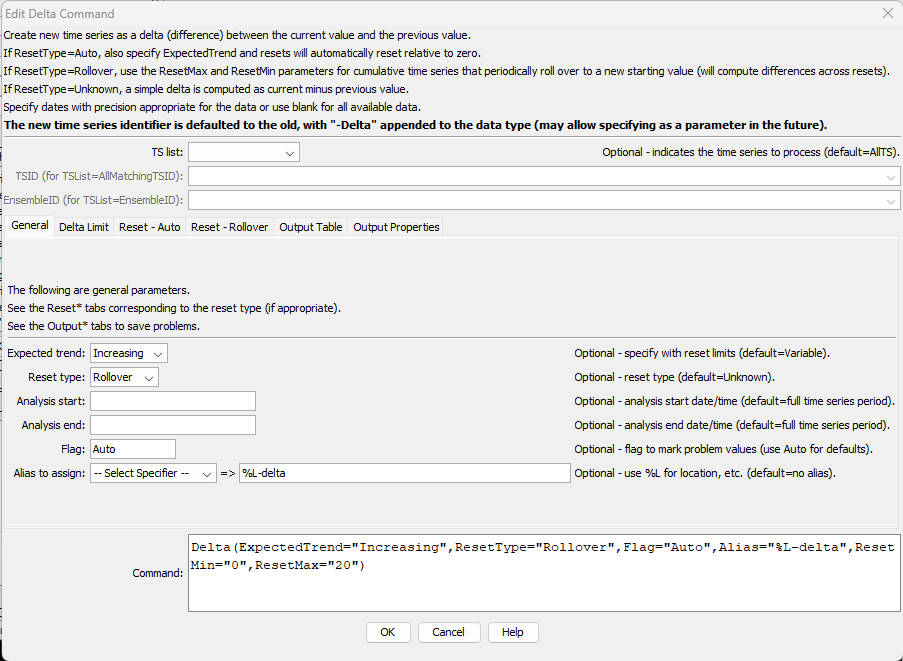
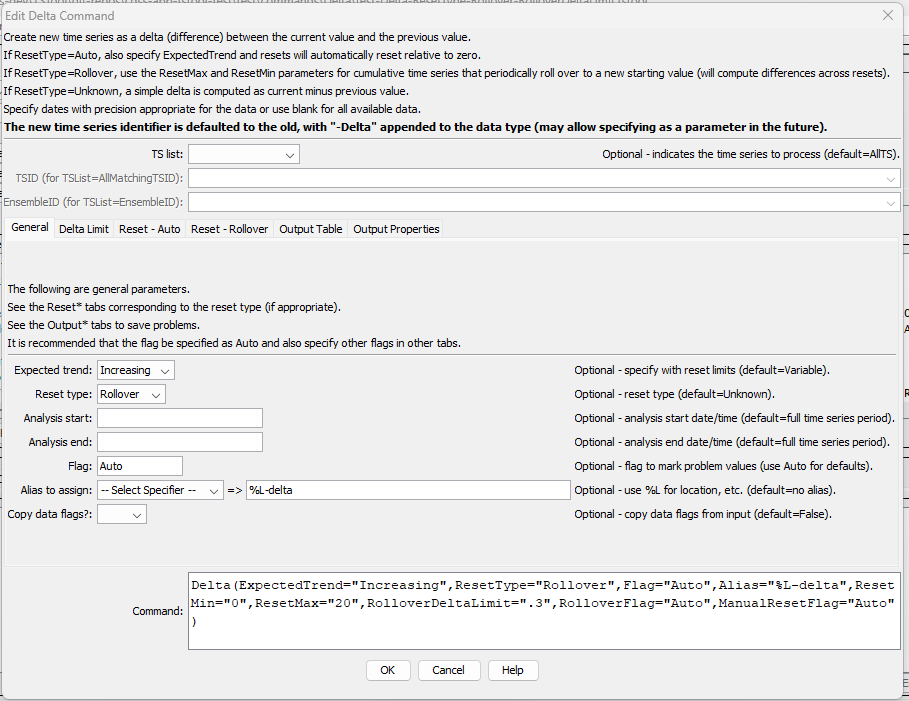
Update documentation for Delta command changes, issue #122

Changed region(s): [[0.0, 0.0, 1.0, 1.0]]

diff --git a/mkdocs-project/docs/css/extra-material-theme.css b/mkdocs-project/docs/css/extra-material-theme.css
@@ -5,7 +5,7 @@
  */
 
 /**
- * ADA compliance requires underline for links so that colorblind people can see the link.
+ * Web accessibility requires underline for links so that colorblind people can see the link.
  */
 a:link {
   text-decoration: underline;

diff --git a/mkdocs-project/docs/command-ref/Delta/Delta.md b/mkdocs-project/docs/command-ref/Delta/Delta.md
@@ -27,7 +27,8 @@ Examples of use include:
 The output value in the simplest case with default command parameters is
 the current value minus the previous value.
 The result is set to missing if this value cannot be computed due to missing input values,
-and can also be set to missing if certain conditions met by optional data checks.
+and can also be set to missing if certain conditions met by optional data checks
+(see the `DeltaLimitAction` and `IntervalLimitAction` parameters).
 
 Irregular-interval time series that result in differences not being computed will have
 missing values inserted in output at appropriate locations to maintain a consistent
@@ -138,6 +139,7 @@ By default, the reset is assumed to be relative to a zero datum value
 For example, annual rain or snow cumulative precipitation can be processed to determine incremental precipitation.
 Because no upper bound is set, it is not possible to add a delta above value before the reset,
 as can be done with `ResetType=Rollover`.
+Therefore, the value after the reset is the value.
 
 The following example is for flood warning system cumulative precipitation data.
 
@@ -218,17 +220,40 @@ Precipitation Time Series input for Variable Reset (<a href="../overview-reset-a
 
 #### Rollover Reset with Bounding Values ####
 
-If the cumulative time series is allowed to increase (or decrease) with reset using known bounding values,
-use `RestType=Rollover` and specify the `ResetMin` and `ResetMax` parameters to bound the values.
 This is appropriate, for example, where the cumulative value correspond to sensor counts such as
 precipitation sensor bucket tips.
 
-For `ExpectedTrend=Increasing` and cumulative time series,
-the input time series value for a reset will have a small value that follows a large value.
+If the cumulative time series is allowed to increase (or decrease) with reset using known bounding values, specify:
+
+*   `ExpectedTrend=Increasing` - to indicate an increasing accumulation (the following assumes increasing)
+*   `RestType=Rollover` - to indicate that rollover is expected
+*   `ResetMax` - maximum data value (rollover will use *`ResetMax` - previous value* as an "upper delta")
+*   `ResetMin` - minimum data value (rollover will add this to the above "upper delta")
+*   `RolloverDeltaLimit`:
+    +   if *`ResetMax` minus the previous value* is <= `RolloverDeltaLimit`, a rollover will occur as described above
+    +   otherwise, a manual reset is assumed because values have not reached the `ResetMax`
+        and the delta value is the difference between the value and `ResetMin`
+*   `RolloverFlag` - use to mark rollover resets
+*   `ManualResetFlag` - use to mark manual resets
+
+The normal case for rollover is that he input time series value will have a small value that follows a large value.
 The delta is computed as:
 
 *   The difference between `ResetMax` and the previous value.
 *   Plus the difference between the value and `ResetMin`.
+
+The normal case for a manual reset is that the delta after the reset is set to the value minus the datum.
+
+The following example is for `ResetMin=0`, `ReetMax=20`, and `RolloverDeltaLimit=.3`,
+which cause both rollover and manual resets to occur.
+
+**<p style="text-align: center;">
+![Example data showing rollover and manual reset](overview-reset-rollover-table.png)
+</p>**
+
+**<p style="text-align: center;">
+Example Data Showing Rollover (`R` flag) and Manual Reset (`r flag) (<a href="../overview-reset-rollover-table.png">see also the full-size image</a>)
+</p>**
 
 Specific cases outside of normal data are:
 
@@ -244,10 +269,10 @@ the inputs do not conform to expected values.
 Out of range values indicate erroneous data that should be corrected before being used in further analysis.
 Additional checks may be implemented in the future to detect and deal with bad data.**
 
-Using the `DeltaLImit` and `IntervalLimit` parameters may cause issues with rollover resets
-in cases where a sensor is taken offline for a period.
-For example if stations are winterized to avoid damage to sensors a period longer than `IntervalLimit`
-may be flagged when stations are turned online.
+The `DeltaLimit` and `IntervalLimit` parameters can be used to identify potential data issues.
+The `IntervalLimit` parameter may not be appropriate if data collection stations are taken out of service
+for some seasons.
+
 
 ## Command Editor ##
 
@@ -322,36 +347,41 @@ Command Parameters
 ||`TSID`|The time series identifier or alias for the time series to be processed, using the `*` wildcard character to match multiple time series.  Can be specified using `${Property}`.|Required if `TSList=*TSID`|
 ||`EnsembleID`|The ensemble to be processed, if processing an ensemble. Can be specified using `${Property}`.|Required if `TSList=*EnsembleID`|
 |***General***|`ExpectedTrend`|Indicates the expected trend of data for cumulative time series, used when values can reset:<ul><li>`Decreasing` – values should decrease and then reset (**has not been fully tested**)</li><li>`Increasing` – values should increase and then reset</li><li>`Variable` – variable pattern increasing and decreasing and don’t reset at fixed thresholds|`Variable`|
-||`ResetType`| The reset type:<ul><li>`Auto` - automatically reset when a cumulative time series trend direction changes (see the ***Reset - Auto*** tab)</li><li>`Rollover` - automatically reset when a cumulative time series trend direction changes and values are bounded</li><li>`Unknown` - reset behavior is unknown (delta is simple calculation of current minus previous)</li></ul> | `Unknown` |
+||`ResetType`| The reset type:<ul><li>`Auto` - automatically reset when a cumulative time series trend direction changes (see the ***Reset - Auto*** tab)</li><li>`Rollover` - automatically reset when a cumulative time series trend direction changes and values are bounded (see the ***Reset - Rollover*** tab)</li><li>`Unknown` - reset behavior is unknown (delta is simple calculation of current minus previous)</li></ul> | `Unknown` |
 ||`AnalysisStart`|The date/time to start analyzing data.  Can be specified using `${Property}`.|Full period is analyzed.|
 ||`AnalysisEnd`|The date/time to end analyzing data.  Can be specified using `${Property}`.|Full period is analyzed.|
-||`Flag`|A string to flag problem values.  Use a `+` in front of the flag to append. These flags can be overridden by more specific flag parameters.<br>If specified as `Auto`, the following, default flags will be used with `ResetType=Rollover`:</li><li>`R` – indicates reset previous value out of range > `ResetMax`</li><li>`r` – indicates reset previous value out of range < `ResetMin`</li><li>`V` – indicates value out of range > `ResetMax`</li><li>`v` – indicates value out of range < `ResetMin`</li><ul><br>Can be specified using `${Property}`.|Do not flag problem values.|
+||`Flag`|A string to flag problem values.  Use a `+` in front of the flag to append. These flags can be overridden by more specific flag parameters.<br>If specified as `Auto`, the following, default flags will be used with `ResetType=Rollover`:<ul><li>`R` – indicates reset previous value out of range > `ResetMax`</li><li>`r` – indicates reset previous value out of range < `ResetMin`</li><li>`V` – indicates value out of range > `ResetMax`</li><li>`v` – indicates value out of range < `ResetMin`</li></ul><br>Can be specified using `${Property}`.|Do not flag problem values.|
 ||`Alias`|Alias to assign to created time series.  A literal string can be specified or use %-specifiers to set the alias dynamically (e.g., `%L-delta`) to use the location part of the identifier.|None (but is highly recommended).|
+||`CopyDataFlags` | Whether to copy the data flags from the input time series to the delta time series (`True`) or not (`False`). Other flags can be specified with a leading `+` to append flags. | `False` |
 |***Delta Limit*** | `DeltaLimit` | Use this and the following parameters to check for larger than expected delta values. The absolute value for the delta that is allowed.  Larger delta values will result in a record in the output table (see the ***Output Table*** tab) and an action can be taken (see below). | |
-| | `DeltaLimitAction` | The action to be taken when a delta value is larger than `DeltaLimit`:<ul><li>`Keep` - keep the out of range delta value</li><li>`SetMissing` - replace the out of range value with the missing data value</li></ul> | `Keep` |
-| | `DeltaLimitFlag` | The data flag to set when a delta value is larger than `DeltaLimit`.  Use a `+` in front of the flag to append. | No flag is set. |
-| | `IntervalLimit` | Use this and the following parameters to check for larger than expected interval between previous and current values, only used with irregular interval time series. A larger than expected interval will result in a record in the output able (see the ***Output Table*** tab) and an action can be taken (see below). | |
-| | `IntervalLimitAction` | The action to be taken when an interval value is larger than `IntervalLimit`:<ul><li>`Keep` - keep the delta value</li><li>`SetMissing` - replace the delta value with the missing data value</li></ul> | `Keep` |
-| | `IntervalLimitFlag` | The data flag to set when an interval is larger than `IntervalLimit`.  Use a `+` in front of the flag to append. | `Keep` |
-|***Reset - Auto***<br>For `RestType=` `Auto` |`AutoResetDatum`| When the data values reset, calculate the first delta value after the reset relative to the specified datum.  Only used with `ExpectedTrend=Increasing`. | `0` (zero).|
-|***Reste - Rollover***<br>For `ResetType=` `Rollover` |`ResetMin`| The minimum expected data value, used when data are expected to roll over at `ResetMax` and reset to `ResetMin`, for example raw precipitation values that reset to zero when an accumulation sensor reaches its maximum value.|Data bounds are not checked.|
-||`ResetMax`| The maximum expected data value, used when data are expected to roll over at `RestMax` and reset to `ResetMin`, for example raw precipitation values that reset to zero when an accumulation sensor reaches its maximum value.| Reset bounds are not checked.|
-||`ResetProximityLimit` | **Future feature.** The allowed delta that occurs prior to or after a reset, within the `ResetProximityLimitInterval`, used to check for bad data around a manual reset, such as calibration data. | |
-||`ResetProximityLimitInterval` | **Future feature.** The interval used to check for `ResetProximityLevel` around a manual reset, such as calibration data that should not be included in data values. | |
-||`ResetProximityLimitFlag` | **Future feature.** The flag to set when a `ProximityLimit` condition is met.  Use a `+` in front of the flag to append. | |
+| | `DeltaLimit`<br>`Action` | The action to be taken when a delta value is larger than `DeltaLimit`:<ul><li>`Keep` - keep the out of range delta value</li><li>`SetMissing` - replace the out of range value with the missing data value</li></ul> | `Keep` |
+| | `DeltaLimit`<br>`Flag` | The data flag to set when a delta value is larger than `DeltaLimit`.  Use a `+` in front of the flag to append. Can be specified using `${Property}`. | No flag is set. |
+| | `IntervalLimit` | Use this and the following parameters to check for larger than expected interval between previous and current values, only used with irregular interval time series. A larger than expected interval will result in a record in the output able (see the ***Output Table*** tab) and an action can be taken (see below). Can be specified using `${Property}`.| |
+| | `IntervalLimit`<br>`Action` | The action to be taken when an interval value is larger than `IntervalLimit`:<ul><li>`Keep` - keep the delta value</li><li>`SetMissing` - replace the delta value with the missing data value</li></ul> | `Keep` |
+| | `IntervalLimit`<br>`Flag` | The data flag to set when an interval is larger than `IntervalLimit`.  Use a `+` in front of the flag to append. Can be specified using `${Property}`. | `Keep` |
+|***Reset - Auto***<br>For `RestType=` `Auto` |`AutoReset`<br>`Datum`| When the data values reset, calculate the first delta value after the reset relative to the specified datum.  Only used with `ExpectedTrend=Increasing`. Can be specified using `${Property}`.| `0` (zero).|
+| | `AutoResetFlag` | Flag to set for automatic resets.  Use a `+` in front of the flag to append.  Can be specified with `${Property}`. | `+A` is used if `Auto` is specified. |
+|***Reset - Rollover***<br>For `ResetType=` `Rollover` |`ResetMin`| The minimum expected data value, used when data are expected to roll over at `ResetMax` and reset to `ResetMin`, for example raw precipitation values that reset to zero when an accumulation sensor reaches its maximum value.|Data bounds are not checked. Can be specified using `${Property}`.|
+||`ResetMax`| The maximum expected data value, used when data are expected to roll over at `RestMax` and reset to `ResetMin`, for example raw precipitation values that reset to zero when an accumulation sensor reaches its maximum value.| Reset bounds are not checked. Can be specified using `${Property}`. |
+||`RolloverDelta`<br>`Limit` | If specified: <ul><li>rollover reset will occur if the `ResetMax` - delta (previous) is <= `RolloverDeltaLimit`, used to differentiate between rollover and manual resets</li><li>otherwise, manual reset will occur</li></ul> | Rollover is allowed for any delta reset. |
+||`RolloverFlag` | Flag to set for rollovers.  Use a `+` in front of the flag to append.  Can be specified with `${Property}`. | `+R` is used if `Auto` is specified. |
+||`ManualReset`<br>`Flag` | Flag to set for manual resets.  Use a `+` in front of the flag to append.  Can be specified with `${Property}`. | `+r` is used if `Auto` is specified. |
+||`Reset`<br>`Proximity`<br>`Limit` | **Future feature.** The allowed delta that occurs prior to or after a reset, within the `ResetProximityLimitInterval`, used to check for bad data around a manual reset, such as calibration data. Can be specified using `${Property}`.  | |
+||`Reset`<br>`Proximity`<br>`LimitInterval` | **Future feature.** The interval used to check for `ResetProximityLevel` around a manual reset, such as calibration data that should not be included in data values. Can be specified using `${Property}`.  | |
+||`Reset`<br>`Proximity`<br>`LimitFlag` | **Future feature.** The flag to set when a `ProximityLimit` condition is met.  Use a `+` in front of the flag to append.  Can be specified using `${Property}`. | |
 |***Output Table*** |`TableID`|Identifier for output table to contain check results.  Specify an existing table or new table to create.  Can be specified using processor `${Property}`.|No table output.|
-||`TableTSIDColumn`|Table column name for time series TSID.|Required for table.|
-||`TableTSIDFormat`|The specification to format the time series identifier to insert into the `TSID` column.  Use the format choices and other characters to define a unique identifier.|Required for table.|
-||`TableDateTimeColumn`|Table column name for date/time.|Column is not output.|`DateTime`|
-||`TableValuePreviousColumn`|Table column name for time series data values for date/time previous to the current value matching `DateTimeColumn` .|`ValuePrevious`|
-||`TableValueColumn`|Table column name for time series data values matching `DateTimeColumn` .|`Value`|
-||`TableDeltaCalculatedColumn`|Table column name for delta after initial calculation.|`DeltaCalculated`|
-||`TableActionColumn`|Table column name for action taken due to checks.|`Action`|
-||`TableDeltaColumn`|Table column name for delta after actions are taken (e.g., if set to missing).|`Delta`|
-||`TableFlagColumn`|Table column name for the flag corresponding to the action. |`Flag`|
-||`TableProblemColumn`|Table column name for data check problem messages.|`Problem`|
-||`ProblemCountProperty`|Name of processor property to set with count of problems (table length).  Can use processor `${Property}` and time series `%` or `${ts:Property}`.|No property is set.|
-||`ProblemCountTimeSeriesProperty`|Name of time series property to set with count of problems (table length).  Can use processor `${Property}` and time series `%` or `${ts:Property}`.|No property is set.|
+||`TableTSID`<br>`Column`|Table column name for time series TSID.|Required for table.|
+||`TableTSID`<br>`Format`|The specification to format the time series identifier to insert into the `TSID` column.  Use the format choices and other characters to define a unique identifier.|Required for table.|
+||`TableDateTime`<br>`Column`|Table column name for date/time.|Column is not output.|`DateTime`|
+||`TableValue`<br>`Previous`<br>`Column`|Table column name for time series data values for date/time previous to the current value matching `DateTimeColumn` .|`ValuePrevious`|
+||`TableValue`<br>`Column`|Table column name for time series data values matching `DateTimeColumn` .|`Value`|
+||`TableDelta`<br>`Calculated`<br>`Column`|Table column name for delta after initial calculation.|`DeltaCalculated`|
+||`TableAction`<br>`Column`|Table column name for action taken due to checks.|`Action`|
+||`TableDelta`<br>`Column`|Table column name for delta after actions are taken (e.g., if set to missing).|`Delta`|
+||`TableFlag`<br>`Column`|Table column name for the flag corresponding to the action. |`Flag`|
+||`TableProblem`<br>`Column`|Table column name for data check problem messages.|`Problem`|
+||`ProblemCount`<br>`Property`|Name of processor property to set with count of problems (table length).  Can use processor `${Property}` and time series `%` or `${ts:Property}`.|No property is set.|
+||`ProblemCount`<br>`TimeSeries`<br>`Property`|Name of time series property to set with count of problems (table length).  Can use processor `${Property}` and time series `%` or `${ts:Property}`.|No property is set.|
 
 ## Examples ##
 

diff --git a/mkdocs-project/docs/appendix-release-notes/release-notes-14.md b/mkdocs-project/docs/appendix-release-notes/release-notes-14.md
@@ -5,6 +5,7 @@ See also the [GitHub repository issues](https://github.com/OpenCDSS/cdss-app-tst
 for outstanding issues and enhancement requests.
 Issues may also be included in other repositories that are TSTool components.
 
+*   [Changes in Version 14.7.1](#changes-in-version-1471)
 *   [Changes in Version 14.7.0](#changes-in-version-1470)
 *   [Changes in Version 14.6.0](#changes-in-version-1460)
 *   [Changes in Version 14.5.4](#changes-in-version-1454)
@@ -29,6 +30,18 @@ Issues may also be included in other repositories that are TSTool components.
 *   [Release notes for all versions](release-notes.md)
 
 ----------
+
+## Changes in Version 14.7.1 ##
+
+**Maintenance release to address bugs and limitations.**
+
+*   ![bug](bug.png) [14.7.1] Update the ***View / Datastores*** view table
+    to enable select for copy and paste.
+*   ![change](change.png) [14.7.1] Enhance the [`Delta`](../command-ref/Delta/Delta.md) command:
+    +   Add the `CopyDataFlags`, `AutoRestFlag`, `RolloverFlag`, and `ManualResetFlag` parameters
+        to allow setting flags to check the output.
+    +   Add the `RolloverDeltaLimit` parameter to control whether a rollover should
+        be handled as a manual rese.
 
 ## Changes in Version 14.7.0 ##
 

diff --git a/mkdocs-project/docs/appendix-release-notes/release-notes.md b/mkdocs-project/docs/appendix-release-notes/release-notes.md
@@ -34,6 +34,7 @@ TSTool Version History Summary (most current at top)
 
 |**TSTool Version(s)**&nbsp;&nbsp;&nbsp;&nbsp;&nbsp;&nbsp;&nbsp;&nbsp;&nbsp;&nbsp;&nbsp;&nbsp;&nbsp;&nbsp;&nbsp;&nbsp;&nbsp;&nbsp;&nbsp;&nbsp;|**Summary of Major Changes in Version**|**Release Date**|
 |--|--|--|
+|[14.8.0](release-notes-14.md)|Feature release to improve dataset publishing. | 2023-03-27 |
 |[14.7.0](release-notes-14.md)|Feature release to improve the experience for new users. | 2023-03-26 |
 |[14.6.0](release-notes-14.md)|Feature release to implement command indentation. | 2023-02-26 |
 |[14.5.4](release-notes-14.md)|Maintenance release to improve plugin integration and automated testing. | 2023-02-13 |

diff --git a/mkdocs-project/docs/index.md b/mkdocs-project/docs/index.md
@@ -12,7 +12,7 @@ This documentation is generally referred to as the **"User Documentation"** in c
 *   [About the Open Water Foundation](#about-the-open-water-foundation)
 *   [License](#license)
 *   [Source Repository on GitHub](#source-repository-on-github)
-*   [Release Notes](appendix-release-notes/release-notes-14.md) - **this documentation has been updated for TSTool version 14.7.0**
+*   [Release Notes](appendix-release-notes/release-notes-14.md) - **this documentation has been updated for TSTool version 14.8.0**
 
 ----------------
 
